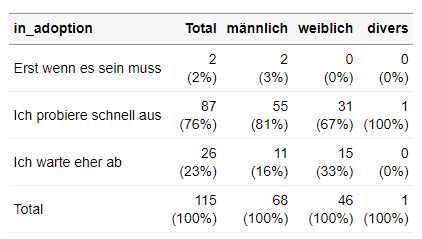
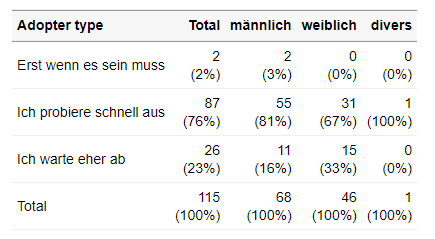
Revise examples

diff --git a/plots/plots.html b/plots/plots.html
@@ -345,7 +345,8 @@ code > span.er { color: #a61717; background-color: #e3d2d2; }
 <div id="frequency-table-for-one-categorical-variable-gender" class="section level3">
 <h3>Frequency table for one categorical variable: Gender</h3>
 <div class="sourceCode" id="cb1"><pre class="sourceCode r"><code class="sourceCode r"><span id="cb1-1"><a href="#cb1-1" tabindex="-1"></a></span>
-<span id="cb1-2"><a href="#cb1-2" tabindex="-1"></a><span class="fu">tab_var_counts</span>(data, sd_geschlecht)</span></code></pre></div>
+<span id="cb1-2"><a href="#cb1-2" tabindex="-1"></a>data <span class="sc">%&gt;%</span> </span>
+<span id="cb1-3"><a href="#cb1-3" tabindex="-1"></a>  <span class="fu">tab_var_counts</span>(sd_geschlecht)</span></code></pre></div>
 <table class="table" style="margin-left: auto; margin-right: auto;">
 <thead>
 <tr>
@@ -818,12 +819,13 @@ Macht mehr Spaß
 <span id="cb5-5"><a href="#cb5-5" tabindex="-1"></a>    <span class="fu">str_detect</span>(in_adoption,<span class="st">&quot;Ich warte eher ab&quot;</span>) <span class="sc">~</span> <span class="st">&quot;Ich warte eher ab&quot;</span>,</span>
 <span id="cb5-6"><a href="#cb5-6" tabindex="-1"></a>    <span class="fu">str_detect</span>(in_adoption,<span class="st">&quot;wenn ich nicht mehr anders kann&quot;</span>) <span class="sc">~</span> <span class="st">&quot;Erst wenn es sein muss&quot;</span>,</span>
 <span id="cb5-7"><a href="#cb5-7" tabindex="-1"></a>  )) <span class="sc">%&gt;%</span> </span>
-<span id="cb5-8"><a href="#cb5-8" tabindex="-1"></a>  <span class="fu">tab_group_counts</span>(in_adoption, sd_geschlecht)</span></code></pre></div>
+<span id="cb5-8"><a href="#cb5-8" tabindex="-1"></a>  volker<span class="sc">::</span><span class="fu">set_item_labels</span>(<span class="fu">tibble</span>(<span class="st">&quot;in_adoption&quot;</span>,<span class="st">&quot;Adopter type&quot;</span>)) <span class="sc">%&gt;%</span> </span>
+<span id="cb5-9"><a href="#cb5-9" tabindex="-1"></a>  <span class="fu">tab_group_counts</span>(in_adoption, sd_geschlecht)</span></code></pre></div>
 <table class="table" style="margin-left: auto; margin-right: auto;">
 <thead>
 <tr>
 <th style="text-align:left;">
-in_adoption
+Adopter type
 </th>
 <th style="text-align:right;">
 Total

diff --git a/README.md b/README.md
@@ -7,25 +7,26 @@
 Das VolkeR-Package ist dafür gemacht, schnelle und einfache Übersichten über Datensätze zu erstellen. 
 Es ist besonders für Befragungsdaten geeignet. Überlegen Sie sich vor der Auswahl der Funktionen:
 
-- Tabelle oder Grafik? 
+- *Tabelle oder Grafik?*  
   Eine Grafik ist schnell zu erfassen, mit den Daten einer Tabelle lässt sich besser weiterrechnen. Erstellen Sie im Zweifelsfall beides.
   Funktionen für Tabellen beginnen mit `tab`, Funktionen für Grafiken (noch in Arbeit) mit `plot`.
   
-- Kategoriale oder metrische Variablen? 
+- *Kategoriale oder metrische Variablen?*   
   Kategorien kann man zählen, für metrische Variablen werden Verteilungsparameter wie der Mittelwert und die Standardabweichung berechnet.
   Funktionen für kategoriale Variablen enthalten im Namen `counts`, die für metrische `metrics`.
   
-- Eine Variable oder Item-Batterien? 
+- *Eine Variable oder Item-Batterien?*  
   Bei Befragungen werden häufig Item-Batterien eingesetzt. Jedes Item resultiert in einer einzelnen Variable, die Variablen sind aber alle mit der gleichen Skala gemessen.
-  Alle Items lassen sich übersichtlich in einer Tabelle zusammenfassen: entweder indem man mit `tab_item_count()` die Ausprägungen für jedes Item zählt (z.B. 1=überhaupt nicht bis 5=voll und ganz) 
+  Alle Items lassen sich übersichtlich in einer Tabelle zusammenfassen: entweder indem man mit `tab_item_counts()` die Ausprägungen für jedes Item zählt (z.B. 1=überhaupt nicht bis 5=voll und ganz) 
   oder indem man mit `tab_item_metrics()` Verteilungsparameter berechnet (z.B. Mittelwert der Antworten, die jeweils von 1 bis 5 gehen). 
   
-- Einfach oder gruppiert?
+- *Einfach oder gruppiert?*  
   Werden metrische Variablen gruppiert, lassen sich Gruppen vergleichen (z.B. der Altersdurchschnitt je Geschlecht), dafür gibt es die Funktion `tab_group_metrics()`.
   Werden kategoriale Variablen gruppiert, entstehen Kreuztabellen (z.B. Kombinationen aus Bildungsgrad und Geschlecht), die mit `tab_group_counts()` erstellt werden können.  
   Um Zusammenhänge zwischen vielen Variablen darzustellen, können entweder mit `tab_multi_means()` alle Mittelwerte von Items zwischen Gruppen verglichen werden oder mit `tab_multi_corr()` Korrelationsmatrizen ausgegeben werden.
 
-- Markdown oder Dataframe? Alle Tabellenfunktionen geben Dataframes zurück, die in Objekten abgelegt und weiterverarbeitet werden können. Die Tabellen verfügen über eine eigene print-Funktion, sodass der Output aller Funktionen direkt in Markdown-Dokumenten eingesetzt werden kann, um formatierte Tabellen auszugeben. Dazu muss im Code-Chunk der Parameter `results='asis'` gesetzt werden, siehe die [Beispiele in der Vignette](vignettes/introduction.Rmd). 
+- *Markdown oder Dataframe?*  
+  Alle Tabellenfunktionen geben Dataframes zurück, die in Objekten abgelegt und weiterverarbeitet werden können. Die Tabellen verfügen über eine eigene print-Funktion, sodass der Output aller Funktionen direkt in Markdown-Dokumenten eingesetzt werden kann, um formatierte Tabellen auszugeben. Dazu muss im Code-Chunk der Parameter `results='asis'` gesetzt werden, siehe die [Beispiele in der Vignette](vignettes/introduction.Rmd). 
 
 
 ## Examples
@@ -64,7 +65,7 @@ Es ist besonders für Befragungsdaten geeignet. Überlegen Sie sich vor der Ausw
   <tr>
     <td><strong style="display: block;transform: rotate(-90deg);">Two variables</strong></td>
     <td valign="top"><code>tab_group_metrics()</code><br><img src="plots/tab_group_metrics.png" alt="Compare metric items by group" width="400"></td>
-    <td valign="top"><code>tab_group_counts()</code><br><img src="plots/tab_group_counts.png" alt="Cross tabulate two variables" width="220"></td>
+    <td valign="top"><code>tab_group_counts()</code><br><img src="plots/tab_group_counts.png" alt="Cross tabulate two variables" width="400"></td>
   </tr>
   <tr>
     <td><strong style="display: block;transform: rotate(-90deg);">Multiple items</strong></td>
